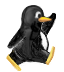
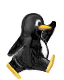
Single-Sprite Ice Tux, equalized Sprite dimensions across Big, Fire and Ice
SVN-Revision: 5296

diff --git a/src/object/player.cpp b/src/object/player.cpp
@@ -913,7 +913,7 @@ Player::draw(DrawingContext& context)
   else if (player_status->bonus == FIRE_BONUS)
     sa_prefix = "fire";
   else if (player_status->bonus == ICE_BONUS)
-    sa_prefix = "fire";
+    sa_prefix = "ice";
   else
     sa_prefix = "small";
 
